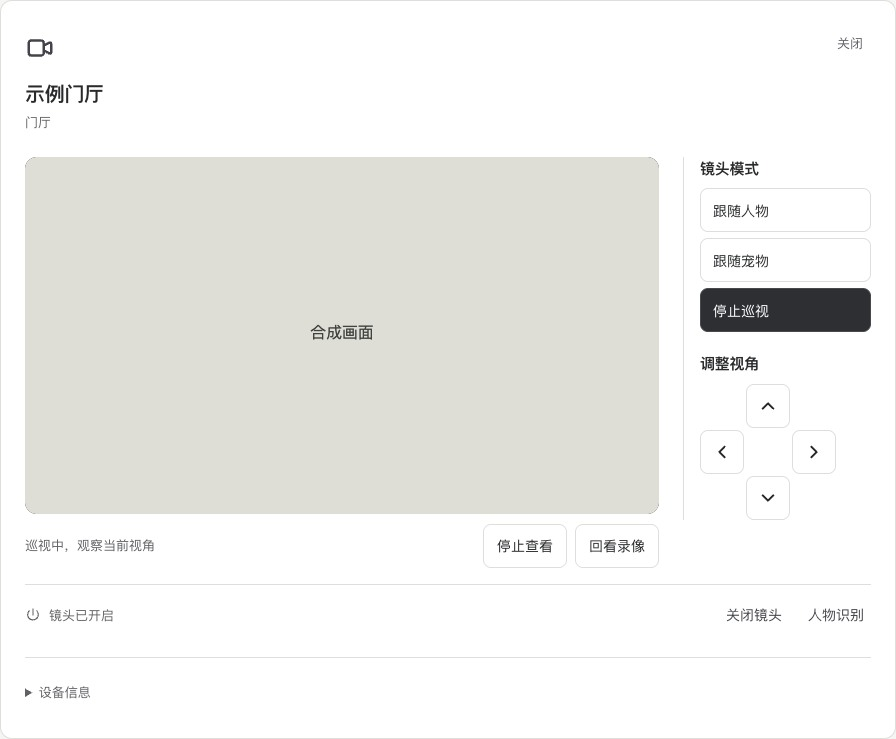
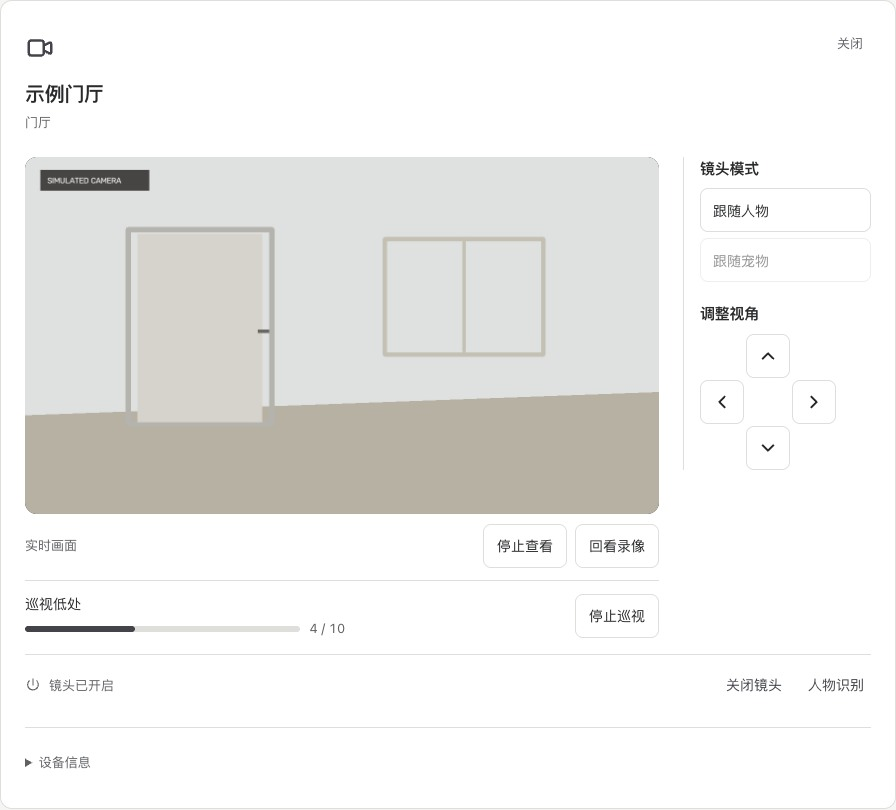
文档：同步镜头巡视进度与后台停止步骤

diff --git a/docs/guides/cameras.md b/docs/guides/cameras.md
@@ -39,13 +39,15 @@
 
 ## 镜头巡视
 
-查看实时画面后，选「巡视一轮」。镜头会依次查看平视和较低的区域，每次转向都要等画面稳定。看到「本轮巡视完成」后，镜头会停留。你也可以在巡视中选择「停止巡视」，画面暂时中断时仍可提交停止。
+查看实时画面后，选「巡视一轮」。镜头依次查看平视和较低的区域，进度按已确认的视角增加。看到「本轮巡视完成」后，镜头会停留。
+
+「停止查看」收起实时画面，详情仍会显示当轮巡视。点进度旁的「停止巡视」，让镜头停在当前视角。
 
 有人在画面里时，选定的镜头仍按路线巡视。看到「巡视中，观察当前视角」时，镜头正在这一处观察。如果有需要复核的异常，镜头会短暂停留，再根据当前画面继续巡视。
 
-![摄像头详情中的观察状态与停止巡视，合成画面](../assets/screenshots/friday-camera-survey.jpg)
+![摄像头详情显示已确认的巡视进度和停止入口，合成画面](../assets/screenshots/friday-camera-survey.jpg)
 
-如果视角无法确认或镜头重新连接，页面会显示「本轮巡视未完成」。画面恢复后，可以再巡视一轮。
+画面暂时中断时，可以从详情停止仍在进行的巡视。当前路线提前结束时，详情会显示「本轮巡视未完成」。画面恢复后，可以再巡视一轮。
 
 ## 回看这台镜头
 

diff --git a/docs/troubleshooting/faq.md b/docs/troubleshooting/faq.md
@@ -116,6 +116,8 @@
 
 后台与总开关仍运行时会继续。只停手势用手势总开关，停全部后台识别用“暂停摄像头感知”，停整套环境用交付的停止入口。
 
+若只想停止当前巡视，打开该摄像头的详情，点「停止巡视」。
+
 ## Q28. 重启后需要重新登录和配置规则吗？
 
 通常不用。用原来的[启动或重启脚本](../getting-started/installation-maintenance.md#1-日常启动与停止)恢复后，看看自己的家庭、画面和手势开关即可。已保存的规则和暂停设置会保留；只有明确提示登录失效时才需要重新登录。
